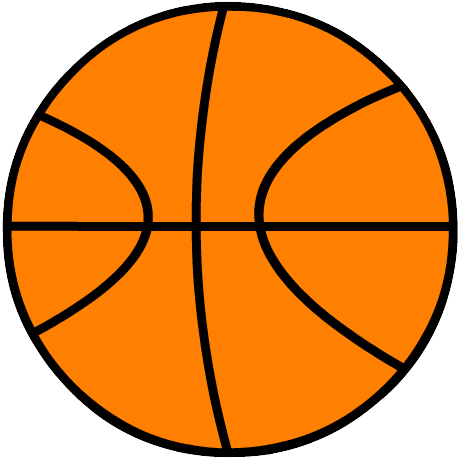
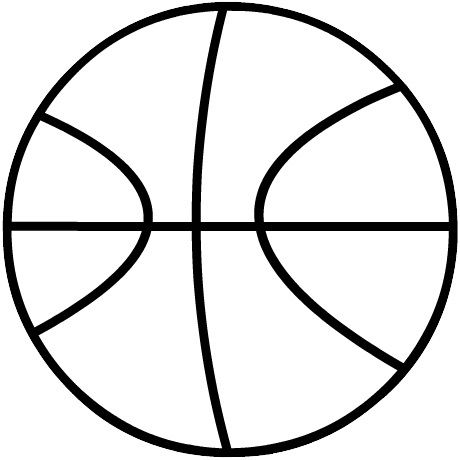
Rename crate, update ball colors

diff --git a/src/games/balls/mod.rs b/src/games/balls/mod.rs
@@ -191,7 +191,7 @@ fn sample_item(mut rng: impl Rng, box_size: Vec2, textures: &TextureStorage) -> 
     let radius: f32 = rng.sample(Uniform::new(0.1, 0.3));
     let mass = physics::MASF * radius;
     let eff_size = (box_size - Vec2::splat(radius)).max(Vec2::ZERO);
-    let shape = if rng.sample(Uniform::new(0.0, 1.0)) < 1.0 {
+    let shape = if rng.sample(Uniform::new(0.0, 1.0)) < 0.5 {
         Shape::Circle { radius }
     } else {
         Shape::Rectangle {
@@ -210,7 +210,7 @@ fn sample_item(mut rng: impl Rng, box_size: Vec2, textures: &TextureStorage) -> 
             rot: Var::new(Rot2::default()),
             asp: Var::default(),
         },
-        color: hsl_to_rgb(rng.sample(Uniform::new(0.0, 1.0)), 1.0, 0.75),
+        color: hsl_to_rgb(rng.sample(Uniform::new(0.0, 1.0)), 1.0, 0.5),
         texture: match &shape {
             Shape::Circle { .. } => textures.ball.clone(),
             Shape::Rectangle { .. } => textures.noise.clone(),
@@ -247,7 +247,7 @@ pub async fn main() -> Result<(), Error> {
 
     let textures = TextureStorage {
         ball: load_texture("ball.png").await?,
-        noise: noisy_texture(&mut rng, 32, 32, Vec3::splat(0.75), Vec3::splat(0.25)),
+        noise: { noisy_texture(&mut rng, 32, 32, Vec3::splat(0.75), Vec3::splat(0.25)) },
     };
 
     let scale = 640.0;

diff --git a/src/main.rs b/src/main.rs
@@ -10,7 +10,7 @@ use macroquad::{
     window::{clear_background, next_frame},
 };
 use std::env;
-use yarik::{
+use yarik_games::{
     games, layout,
     text::{Text, TextAlign},
 };

diff --git a/README.md b/README.md
@@ -1,1 +1,1 @@
-# Yarik
+# Games
